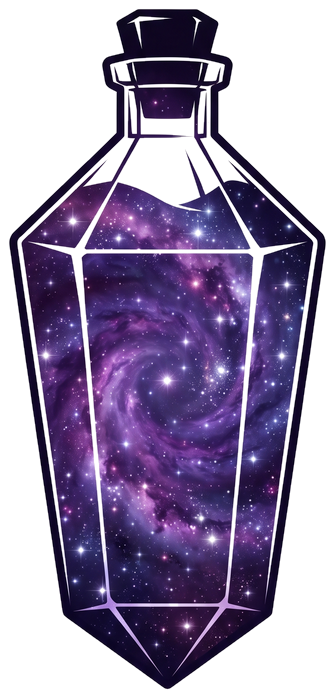
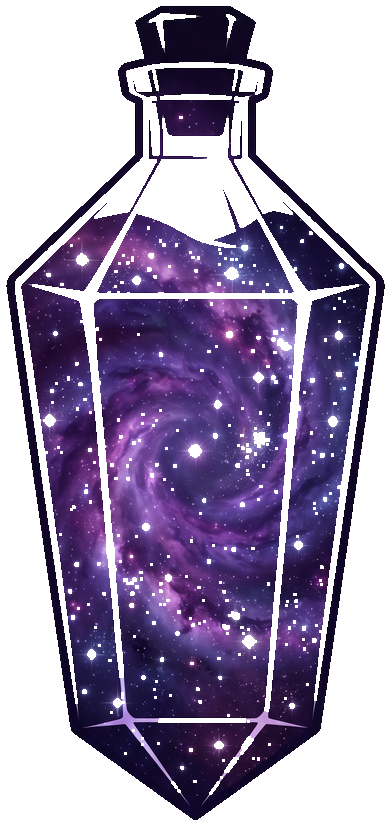
Keep the school vials inside the card window

diff --git a/src/shop.css b/src/shop.css
@@ -123,6 +123,7 @@
   width: 100%;
   aspect-ratio: 1024 / 1536;
   container-type: inline-size;
+  overflow: hidden;
   filter: drop-shadow(0 16px 22px var(--plate-glow, rgba(0, 0, 0, 0.45)));
 }
 .theme-emberforge { --plate-glow: rgba(150, 40, 8, 0.55); }
@@ -309,15 +310,21 @@
   pointer-events: none;
   display: grid;
   place-items: center;
+  overflow: hidden;
 }
 .product-card-vial img {
+  min-width: 0;
+  min-height: 0;
   width: 100%;
   height: 100%;
   object-fit: contain;
+  object-position: center;
   mask-image: radial-gradient(ellipse at center, #000 58%, transparent 78%);
   -webkit-mask-image: radial-gradient(ellipse at center, #000 58%, transparent 78%);
 }
 .product-card-vial img.silhouette {
+  width: 84%;
+  height: 96%;
   mask-image: none;
   -webkit-mask-image: none;
 }
